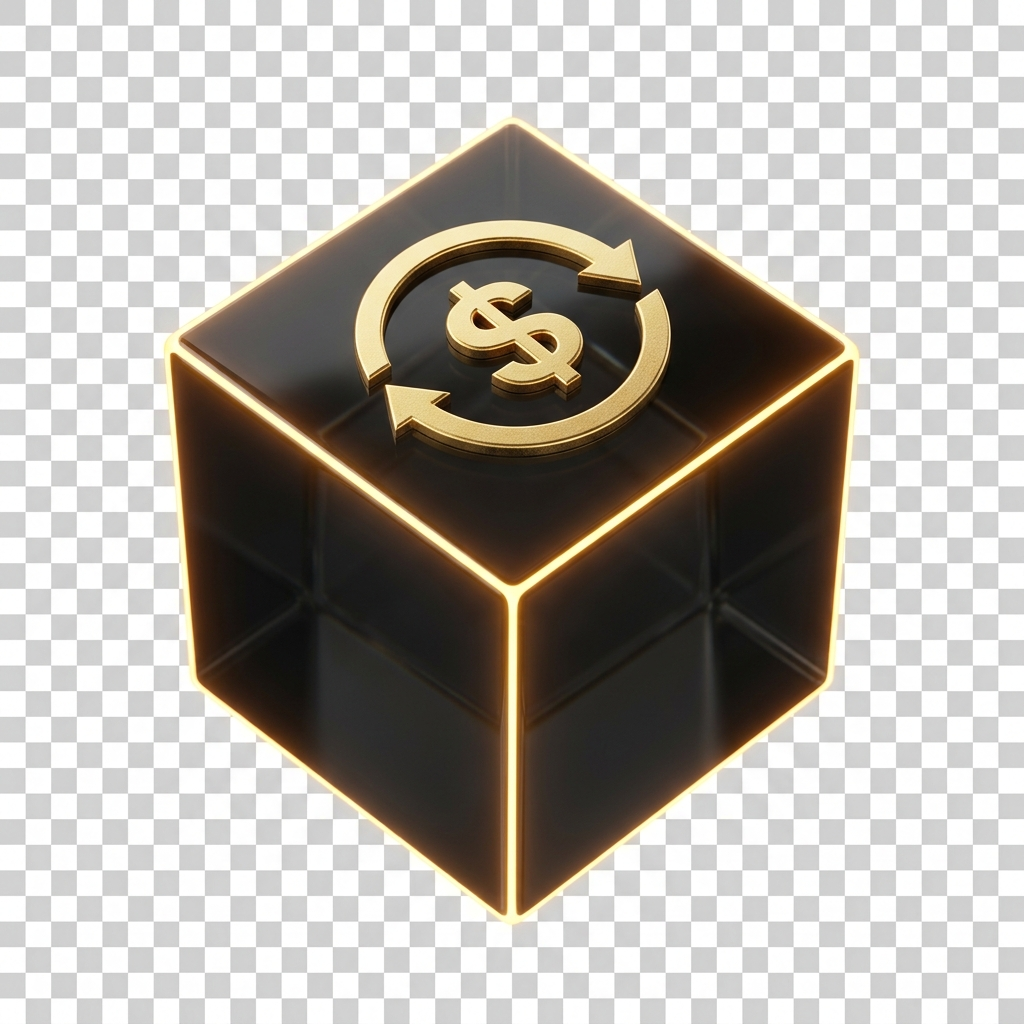
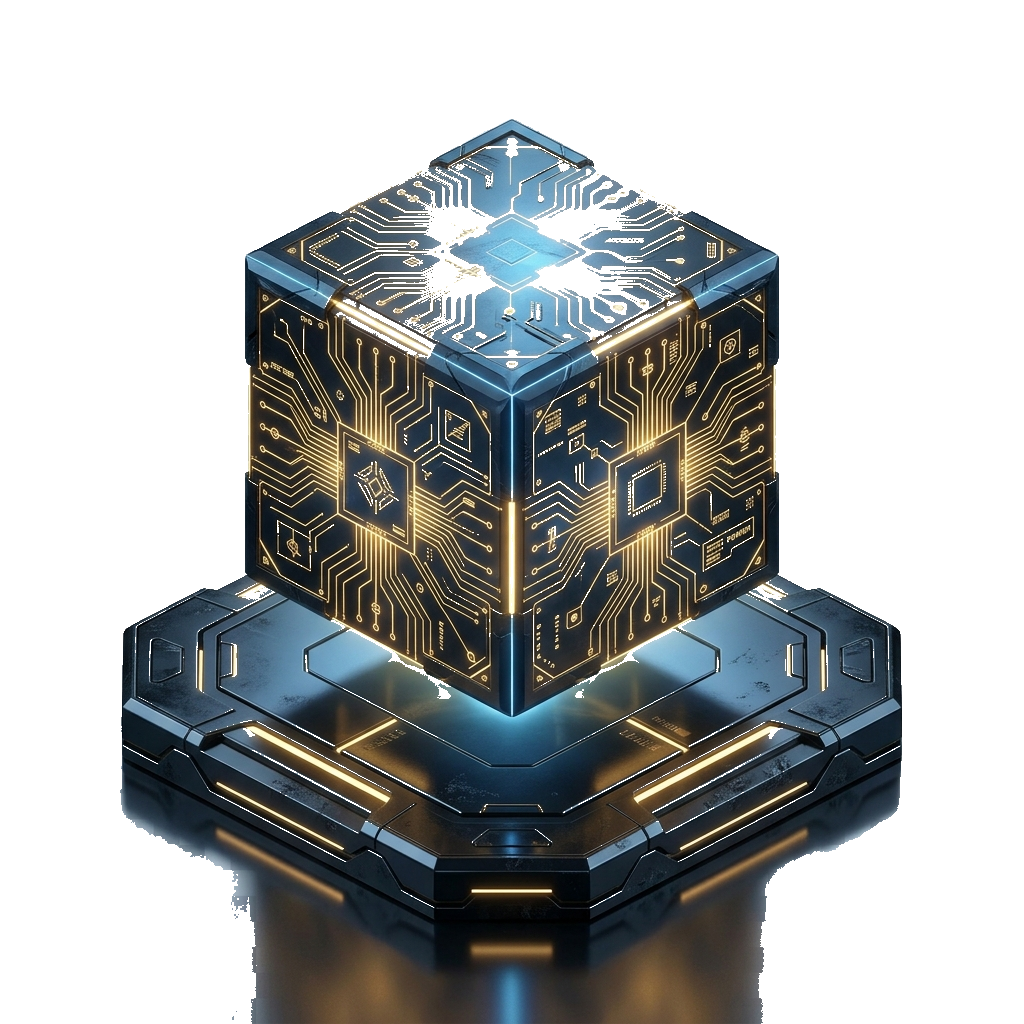
design: restore premium 3D assets and build connected diagram with absolute SVG line alignments in Architecture section

diff --git a/frontend/src/app/page.tsx b/frontend/src/app/page.tsx
@@ -4,16 +4,16 @@ import React from "react";
 import Link from "next/link";
 import Image from "next/image";
 import { useWallet } from "@/context/WalletContext";
-import { 
-  ArrowRight, 
-  Calendar, 
-  UserCheck, 
-  Zap, 
-  ShieldCheck, 
-  Check, 
-  Users, 
-  Coins, 
-  TrendingUp, 
+import {
+  ArrowRight,
+  Calendar,
+  UserCheck,
+  Zap,
+  ShieldCheck,
+  Check,
+  Users,
+  Coins,
+  TrendingUp,
   Award,
   Sparkles,
   Code2
@@ -150,7 +150,7 @@ export default function Home() {
           <div className="absolute inset-0 radial-glow z-0" />
           <div className="relative z-10 w-[300px] h-[300px] sm:w-[400px] sm:h-[400px] hover:scale-105 transition-transform duration-500">
             <Image
-              src="/recurring_payments.png"
+              src="/hero_coins.png"
               alt="Recurring Payments"
               fill
               className="object-contain"
@@ -253,7 +253,7 @@ export default function Home() {
         {/* 3D Shield Illustration */}
         <div className="relative w-[180px] h-[180px] flex shrink-0 justify-center items-center z-10 hover:scale-105 transition-transform duration-500">
           <Image
-            src="/security_trust.png"
+            src="/shield_security.png"
             alt="Security and Trust"
             fill
             className="object-contain"
@@ -317,35 +317,58 @@ export default function Home() {
             ))}
           </ul>
         </div>
-
         {/* Contract Diagram Platform illustration */}
-        <div className="relative flex justify-center md:justify-end items-center">
+        <div className="relative flex justify-center lg:justify-end items-center">
           <div className="absolute inset-0 radial-glow z-0" />
           
-          <div className="relative z-10 flex flex-row items-center gap-4">
-            <div className="flex flex-col gap-6">
-              <div className="bg-bg-primary border border-border-subtle p-3 rounded-xl text-center min-w-[100px] shadow-lg">
-                <span className="text-[10px] text-text-secondary block">Role</span>
-                <span className="text-xs font-bold text-white">Merchant</span>
-              </div>
-              <div className="bg-bg-primary border border-border-subtle p-3 rounded-xl text-center min-w-[100px] shadow-lg">
-                <span className="text-[10px] text-text-secondary block">Role</span>
-                <span className="text-xs font-bold text-white">Subscriber</span>
-              </div>
+          <div className="relative z-10 w-[380px] h-[260px] select-none">
+            {/* SVG Connecting Lines */}
+            <svg className="absolute inset-0 w-full h-full z-0" viewBox="0 0 380 260">
+              <defs>
+                <linearGradient id="lineGrad" x1="0%" y1="0%" x2="100%" y2="100%">
+                  <stop offset="0%" stopColor="#dfa552" stopOpacity="0.8" />
+                  <stop offset="100%" stopColor="#dfa552" stopOpacity="0.3" />
+                </linearGradient>
+              </defs>
+              {/* Merchant to Cube */}
+              <path d="M 110 47 L 150 47 L 170 95" stroke="url(#lineGrad)" strokeWidth="1.5" strokeDasharray="4 4" fill="none" />
+              {/* Subscriber to Cube */}
+              <path d="M 110 213 L 150 213 L 170 165" stroke="url(#lineGrad)" strokeWidth="1.5" strokeDasharray="4 4" fill="none" />
+              {/* Smart Contract to Cube */}
+              <path d="M 260 119 L 220 119" stroke="url(#lineGrad)" strokeWidth="1.5" strokeDasharray="4 4" fill="none" />
+              
+              {/* Small connection dots */}
+              <circle cx="110" cy="47" r="3" fill="#dfa552" />
+              <circle cx="110" cy="213" r="3" fill="#dfa552" />
+              <circle cx="260" cy="119" r="3" fill="#dfa552" />
+            </svg>
+
+            {/* Merchant Box */}
+            <div className="absolute top-[20px] left-[10px] z-10 bg-bg-primary/95 border border-border-subtle p-2 rounded-xl text-center w-[100px] shadow-lg animate-pulse">
+              <span className="text-[9px] text-text-secondary block font-bold uppercase tracking-wider">Role</span>
+              <span className="text-xs font-extrabold text-white">Merchant</span>
             </div>
-            
-            <div className="relative w-[180px] h-[180px] sm:w-[220px] sm:h-[220px] hover:rotate-3 transition-transform duration-500">
+
+            {/* Subscriber Box */}
+            <div className="absolute bottom-[20px] left-[10px] z-10 bg-bg-primary/95 border border-border-subtle p-2 rounded-xl text-center w-[100px] shadow-lg animate-pulse">
+              <span className="text-[9px] text-text-secondary block font-bold uppercase tracking-wider">Role</span>
+              <span className="text-xs font-extrabold text-white">Subscriber</span>
+            </div>
+
+            {/* Center 3D Cube */}
+            <div className="absolute top-[40px] left-[100px] w-[180px] h-[180px] z-10 hover:scale-105 transition-transform duration-500">
               <Image
-                src="/smart_contract_automation.png"
-                alt="Smart Contract Automation"
+                src="/contract_cube.png"
+                alt="3D Smart Contract Cube"
                 fill
                 className="object-contain"
               />
             </div>
 
-            <div className="bg-bg-primary border border-accent-primary/30 p-3 rounded-xl text-center shadow-lg relative -left-4">
-              <span className="text-[9px] text-accent-primary block uppercase font-bold tracking-wider">Logic</span>
-              <span className="text-xs font-bold text-white">Smart Contract</span>
+            {/* Smart Contract Box */}
+            <div className="absolute top-[90px] right-[10px] z-10 bg-bg-primary/95 border border-accent-primary/30 p-2.5 rounded-xl text-center w-[110px] shadow-lg shadow-accent-primary/5">
+              <span className="text-[9px] text-accent-primary block font-bold uppercase tracking-wider">Logic</span>
+              <span className="text-xs font-extrabold text-white">Smart Contract</span>
               <span className="text-[8px] text-text-secondary block font-mono">Soroban</span>
             </div>
           </div>